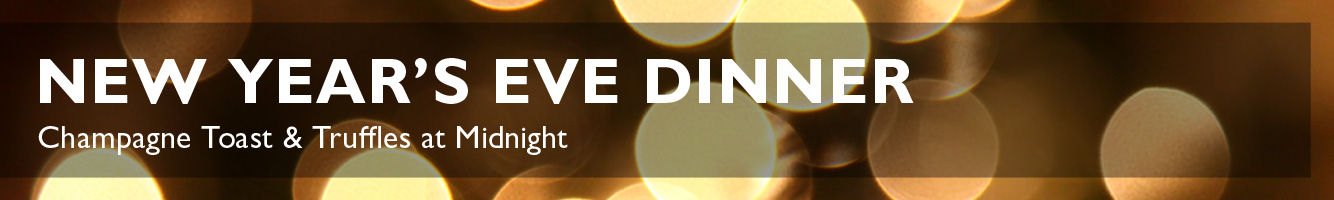
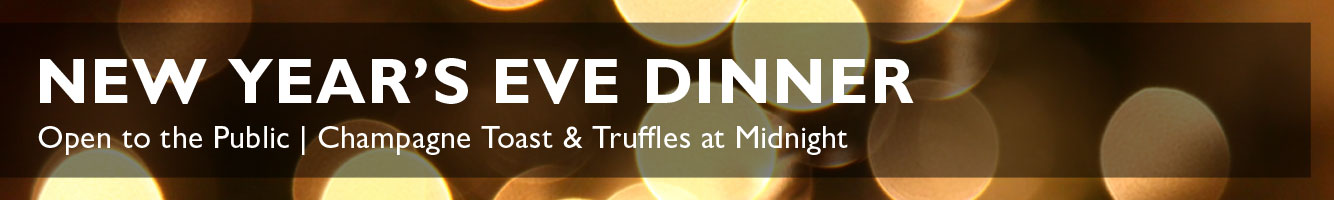
NYE content updates

diff --git a/lightbox/nye-promo.html b/lightbox/nye-promo.html
@@ -17,10 +17,19 @@
             <div style="background:none;" class="main_content_content">
         <img src='/images/site/nye-promo-banner.jpg' style="width: 710px; margin: 10px 20px 15px 0; text-align:center;" />
         <br />
-        <h1>Welcome 2013 with Dinner, Drinks and S'mores at Travaasa Austin</h1> 
-            <p style="margin: 0 25px 0 20px;">Take part in a relaxing setting to ring in the near year with a multiple course
-dinner, live music by Austin-based musician Hayden Karchmer, after dinner gourmet s'mores station on Mesquite Patio, and a champagne toast at midnight with truffles to boot.</p>
-            <p style="margin:0 25px 0 20px;"><strong>RESERVATIONS ONLY</strong><br />&#8226;&nbsp; Dinner is open to the public <br />&#8226;&nbsp; Reservations are available from 6:00pm to 11:00pm</br />&#8226;&nbsp; $65.00++ per person<br />&#8226;&nbsp; Stay on property New Year's Eve and we'll deduct $20.13 off of your stay (base rate of $225/night per person or $343/night for two people)<br />&#8226;&nbsp; Dinner is included for guests staying on Total Travaasa<br />&#8226;&nbsp; Call <strong>1-855-TO-TRAVAASA</strong> (855-868-7282) to book</p> 
+        <h1>Ring in 2013 with Dinner, Drinks and S'mores at Travaasa Austin</h1> 
+        
+        	<ul style="margin: 0 25px 0 20px;">
+        	<li>RESERVATIONS ONLY 6:00pm to 11:00pm &#8211; Open to the public</li>
+        	<li>Multiple Course Dinner</li>
+        	<li>Live music by Austin-based musician Hayden Karchmer</li>
+        	<li>After dinner gourmet s'mores station on Mesquite Patio</li>
+        	<li>Champagne toast at midnight with truffles</li>
+        	<li>Stay New Year's Eve and we'll deduct $20.13 off of your rate (base rate of $225/night per person or $343/night for two people)</li>
+        	<li><strong>$65.00++ per person</strong> (included for guests staying on the Total Travaasa Package)</li>
+        	</ul>
+        
+            <p style="margin: 0 25px 0 20px;">Call 1-855-TO-TRAVAASA (855-868-7282) to book.</p>
             <!--<p style="margin: 0 25px 0 20px;">Photo Credit: <a href="#" target="_blank">Photo Credit</a></p>-->
 </div></div></div>
     </body>
